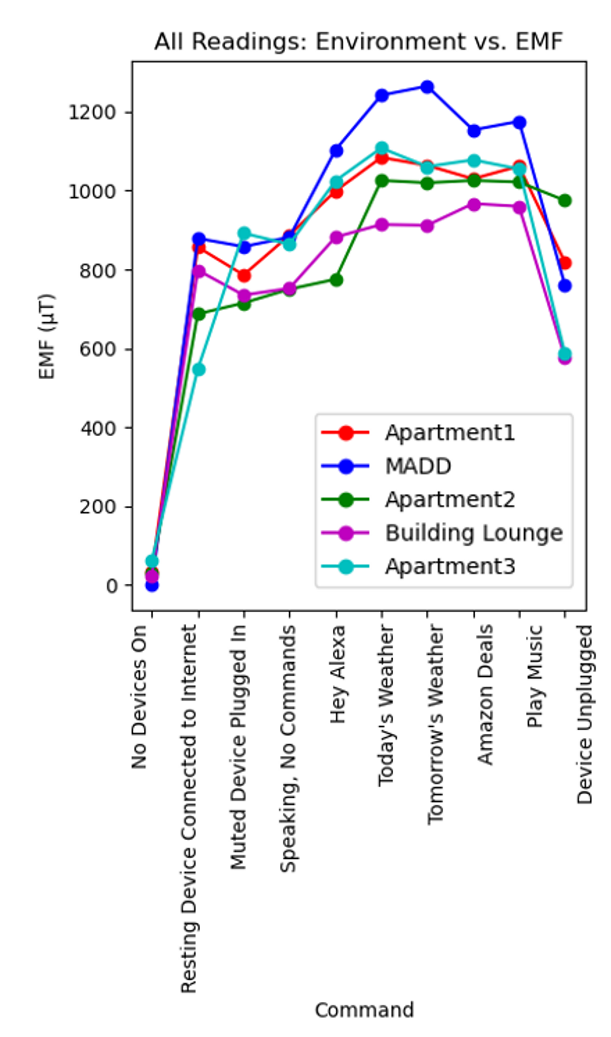
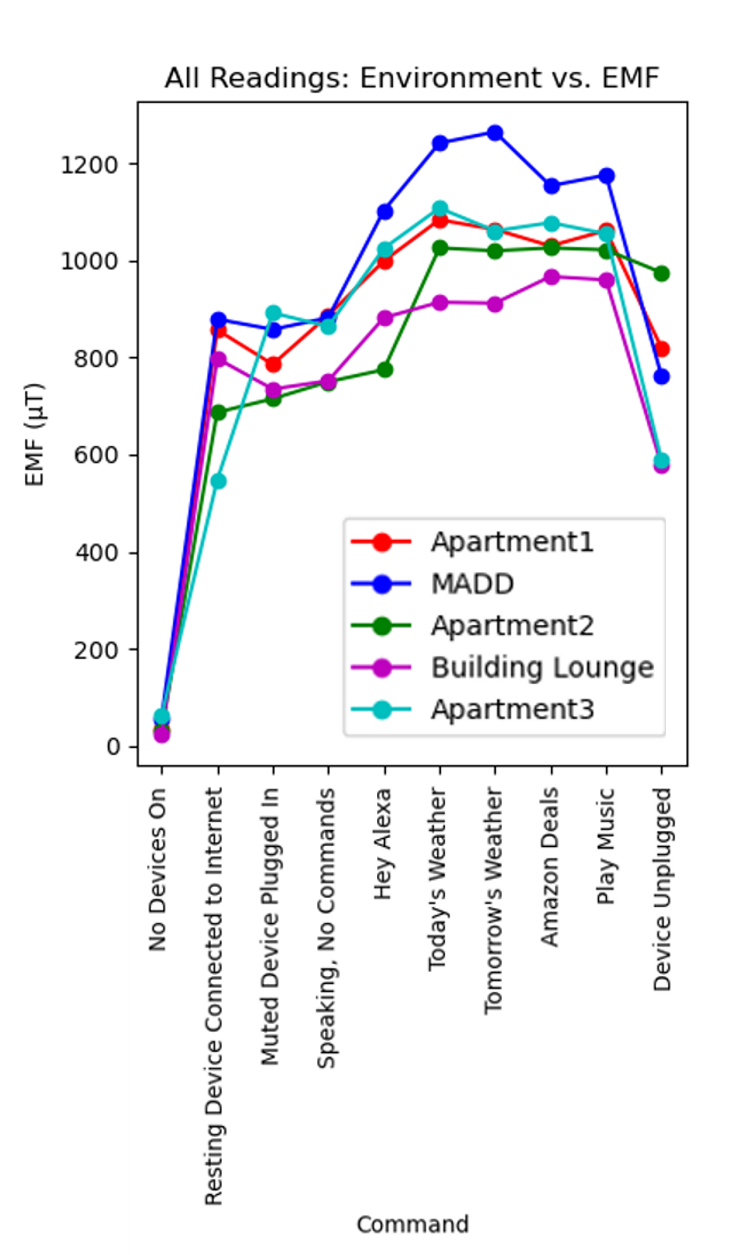
updated files

Changed region(s): [[0.0311, 0.0309, 0.9951, 0.9566], [0.4664, 0.9566, 0.6841, 0.9875]]

diff --git a/reading_files.py b/reading_files.py
@@ -153,8 +153,8 @@ def emf_abby1(file_path):
 def emf_abby2(file_path):
     #Abby's EMF reading averages (3 readings taken each time) 
     #MAAD Lab (6 TVs streaming various things, computers, computer lab on other side of facility, many networked devices)
-    emf = [115, 790, 879, 858, 882, 1103, 1242, 1265, 1192, 1154, 1176, 761]
-    command = ["TV/Computer in room", "Setup Mode","Resting Device Connected to Internet","Muted Device Plugged In", "Speaking, No Commands","Hey Alexa","Today's Weather","Tomorrow's Weather","Call Dad","Amazon Deals","Play Music", "Device Unplugged"]
+    emf = [57, 115, 790, 879, 858, 882, 1103, 1242, 1265, 1192, 1154, 1176, 761]
+    command = ["No Devices", "TV/Computer in room", "Setup Mode","Resting Device Connected to Internet","Muted Device Plugged In", "Speaking, No Commands","Hey Alexa","Today's Weather","Tomorrow's Weather","Call Dad","Amazon Deals","Play Music", "Device Unplugged"]
 
     #plotting environment vs. emf
     plt.plot(emf, command, 'o-')
@@ -233,7 +233,7 @@ def all_emf(file_path):
 
     ab1_emf = [33, 857, 786, 887, 999, 1084, 1064, 1030, 1062, 819]
     ab1_command = ["No Devices On", "Resting Device Connected to Internet","Muted Device Plugged In", "Speaking, No Commands","Hey Alexa","Today's Weather","Tomorrow's Weather","Amazon Deals","Play Music", "Device Unplugged"]
-    ab2_emf = [0, 879, 858, 882, 1103, 1242, 1265, 1154, 1176, 761]
+    ab2_emf = [57, 879, 858, 882, 1103, 1242, 1265, 1154, 1176, 761]
     ch1_emf = [31, 687, 715, 750, 775, 1026, 1020, 1026, 1022, 975]
     ch2_emf = [31, 772, 324, 726, 725, 725, 722, 727, 724, 120]
     ab3_emf = [23, 798, 735, 752, 882, 914, 912, 967, 960, 578]
@@ -254,6 +254,49 @@ def all_emf(file_path):
     plt.savefig(fig_location)
     plt.clf()
 
+def all_emf_sub_baseline(file_path):
+    #all the emf values in one plot
+    ab1_command = ["Resting Device Connected to Internet","Muted Device Plugged In", "Speaking, No Commands","Hey Alexa","Today's Weather","Tomorrow's Weather","Amazon Deals","Play Music", "Device Unplugged"]
+    ab1_emf = [824, 753, 854, 966, 1051, 1031, 997, 1029, 786]
+    ab2_emf = [822, 801, 825, 1046, 1185, 1207, 1097, 1119, 704]
+    ch1_emf = [656, 684, 719, 744, 995, 989, 986, 991, 944]
+    ab3_emf = [775, 712, 729, 859, 891, 889, 944, 937, 555]
+    ab4_emf = [485, 830, 802, 963, 984, 999, 1012, 993, 522]
+
+    plt.plot(ab1_command, ab1_emf, 'ro-', label = 'Apartment1')
+    plt.plot(ab1_command, ab2_emf, 'bo-', label = 'MADD')
+    plt.plot(ab1_command, ch1_emf, 'go-', label = 'Apartment2')
+    plt.plot(ab1_command, ab3_emf, 'mo-', label = 'Building Lounge')
+    plt.plot(ab1_command, ab4_emf, 'co-', label = 'Apartment3')
+    plt.title('All Readings: Environment vs. EMF')
+    plt.xlabel('Command')
+    plt.ylabel('EMF (μT)')
+    plt.legend(loc='best', bbox_to_anchor=(1.1, 1.05))
+    plt.xticks(rotation = 90)
+    plt.tight_layout()
+    fig_location = os.path.join(file_path, "Data_Plots/WifiReadingAllSubBaseline.png")
+    plt.savefig(fig_location)
+    plt.clf()
+
+def temporal(file_path):
+    #Christina's apartment EMF readings when 
+    time = [0,5,10,15,20,25,30]
+    emf_hey_alexa = [725,725,725,725,725,725, 725]
+    emf_weather = [722, 726, 724, 722, 728, 724, 722]
+    emf_music = [723, 723, 725, 724, 725, 724, 723]
+    
+    #plotting environment vs. emf
+    plt.plot(time, emf_hey_alexa, 'ro-', label = "Hey Alexa")
+    plt.plot(time, emf_weather, 'bo-', label = "Weather")
+    plt.plot(time, emf_music, 'go-', label = "Music")
+    plt.title('Temporal EMF Measurements over Time')
+    plt.xlabel('Time (s)')
+    plt.ylabel('EMF (μT)')
+    plt.legend(loc='best')
+    plt.tight_layout()
+    fig_location = os.path.join(file_path, "Data_Plots/EMFovertime.png")
+    plt.savefig(fig_location)
+    plt.clf()
 
 def main():
     file_path = os.getcwd()
@@ -267,6 +310,8 @@ def main():
     emf_abby3(file_path)
     emf_abby4(file_path)
     all_emf(file_path)
+    temporal(file_path)
+    all_emf_sub_baseline(file_path)
 
 if __name__ == "__main__":
     main()
